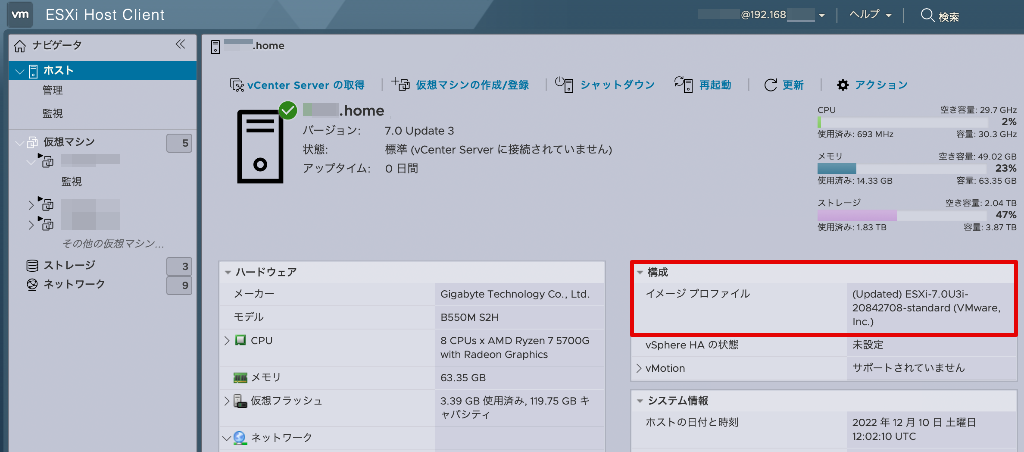
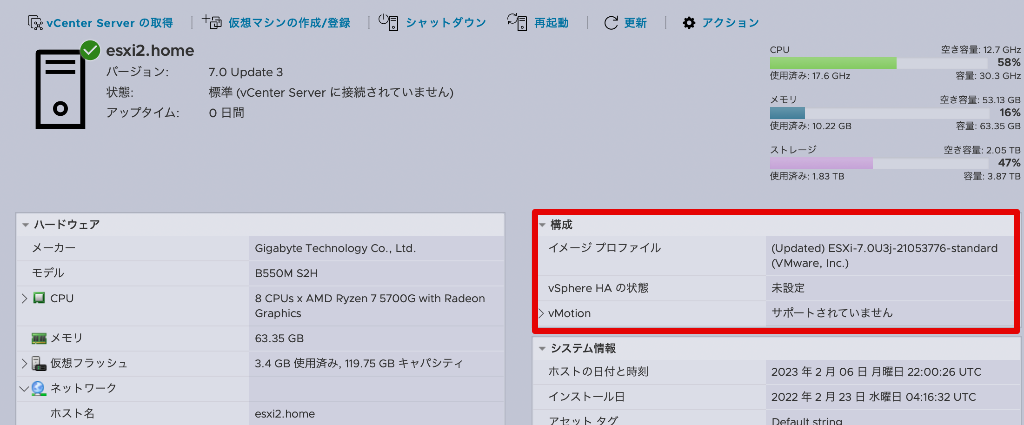
update post

diff --git a/source/_posts/esxi67-patch.md b/source/_posts/esxi67-patch.md
@@ -14,6 +14,30 @@ date: 2020-06-14 22:19:20
 
 <!-- more -->
 
+## ESXiの脆弱性を狙ったランサムウェアについて
+
+JPCERT/CCより、2023-02-07にESXiの脆弱性についての情報が提供されています。
+
+> VMware ESXiを標的としたランサムウェア攻撃について
+ <https://www.jpcert.or.jp/newsflash/2023020601.html>
+
+既知のOpenSLPのヒープオーバーフローの脆弱性（CVE-2021-21974）を悪用した攻撃とみられ、攻撃を受けるとファイルが暗号化され身代金の支払いを求めるメッセージが残されます。
+
+ちょうど2023-01-31に新しいESXi7.0のパッチが提供されていますが、こちらは不具合に対応するパッチとなります。上記で指摘されている脆弱性の対象（CVE-2021-21974）は、以下のとおりです。
+
+VMware ESXi 7.0系 Update 1cより前のバージョン（ESXi70U1c-17325551パッチ未適用）
+VMware ESXi 6.7系 ESXi670-202102001より前のバージョン（ESXi670-202102401-SGパッチ未適用）
+VMware ESXi 6.5系 ESXi650-202102001より前のバージョン（ESXi650-202102101-SGパッチ未適用）
+VMware Cloud Foundation 4系 4.2より前のバージョンに含まれるESXi
+VMware Cloud Foundation 3系 KB82705未適用のバージョンに含まれるESXi
+
+随分以前のパッチのU1cが適用されていれば問題はありません。基本的にサポート切れのESXi6.7を運用することは論外としても、適宜、ESXi7.0において、パッチを適用していれば安全です。最新パッチが適用された状態で、今回問題となったOpenSLPについては未稼働であることが確認できます。
+
+``` bash
+[root@esxi2:~] esxcli system slp stats get
+SLP service is not running.
+```
+
 ## パッチ適用に必要なもの
 
 SSHでESXiに接続し、コマンドラインでパッチを適用します。Windows10ではOpenSSHがサポートされていますので、{% label primary@オプション機能を追加する %}から{% label primary@OpenSSHクライアント %}を有効にし、コマンドラインから`ssh  root@ESXiのIPアドレス`で接続可能です。
@@ -22,8 +46,8 @@ SSHでESXiに接続し、コマンドラインでパッチを適用します。W
 
 ESXiのパッチ情報は以下を参照してください。当該ページの左ペインメニューには最新パッチの情報が掲載されていますので、最新のパッチ情報を辿ってください。また、過去のパッチの情報も提供されています。
 
-> VMware ESXi 7.0 Update 3i（2022-12-8発表）
- <https://docs.vmware.com/en/VMware-vSphere/7.0/rn/vsphere-esxi-70u3i-release-notes.html>
+> VMware ESXi 7.0 Update 3j（2023-1-31発表）
+ <https://docs.vmware.com/en/VMware-vSphere/7.0/rn/vsphere-esxi-70u3j-release-notes.html>
 
 ## 製品パッチの情報を入手する
 
@@ -35,7 +59,7 @@ ESXiのセットアップ時にCustomer Connectへの登録を行い、個人向
 
 {% asset_img myvm3.png alt %}
 
-さらに、"ESXi"とバージョンの"7.0"を選択し"検索"ボタンをクリックすると、パッチの一覧が表示されます。以下は7.0U3iの画面です。
+さらに、"ESXi"とバージョンの"7.0"を選択し"検索"ボタンをクリックすると、パッチの一覧が表示されます。以下は7.0U3jの画面です。
 
 {% asset_img myvm2.png alt %}
 
@@ -88,71 +112,46 @@ ESXiにログインし、以下の作業を行います。
  ```
 
 6. パッチ適用コマンドを入力します
- 新しいドライバやバグフィックス、セキュリティパッチなど含めたprofileとして整合性が取れたvibのアップデートはprofile updateを実行します。ここでは、ESXi7.0Update3gからUpdate3iにアップデートすることを例にします。
+ 新しいドライバやバグフィックス、セキュリティパッチなど含めたprofileとして整合性が取れたvibのアップデートはprofile updateを実行します。ここでは、ESXi7.0Update3iからUpdate3jにアップデートすることを例にします。
 
  現在の実行中のprofileを確認します。`esxcli software profile get`
  ``` bash
 [root@esxi2:] esxcli software profile get
-(Updated) ESXi-7.0U3g-20328353-standard
-   Name: (Updated) ESXi-7.0U3g-20328353-standard
+(Updated) ESXi-7.0U3i-20842708-standard
+   Name: (Updated) ESXi-7.0U3i-20842708-standard
    Vendor: VMware, Inc.
-   Creation Time: 2022-09-03T03:53:39
-   Modification Time: 2022-12-10T08:23:23
+   Creation Time: 2022-12-10T11:56:18
+   Modification Time: 2023-02-06T21:47:25
    Stateless Ready: True
  ```
 
  一般的にはバージョンの最後に"-standard"の文字が付いています。standard版がインストールされている事を示します。
  次に、パッチファイルに登録されているprofileを確認します（パッチはフルパス指定が必要です）。
  ``` bash
-[root@esxi2] esxcli software sources profile list -d /vmfs/volumes/datastore1/update/VMware-ESXi-7.0U3i-20842708-depot.zi
-p
-Name                            Vendor        Acceptance Level  Creation Time        Modification Time
-------------------------------  ------------  ----------------  -------------------  -----------------
-ESXi-7.0U3si-20841705-standard  VMware, Inc.  PartnerSupported  2022-12-08T00:00:00  2022-12-08T00:00:00
-ESXi-7.0U3si-20841705-no-tools  VMware, Inc.  PartnerSupported  2022-12-08T00:00:00  2022-11-24T01:25:32
-ESXi-7.0U3i-20842708-standard   VMware, Inc.  PartnerSupported  2022-12-08T00:00:00  2022-12-08T00:00:00
-ESXi-7.0U3i-20842708-no-tools   VMware, Inc.  PartnerSupported  2022-12-08T00:00:00  2022-11-24T05:06:48
+[root@esxi2] esxcli software sources profile list -d /vmfs/volumes/datastore1/update/VMware-ESXi-7.0U3j-21053776-depot.zip
+Name                           Vendor        Acceptance Level  Creation Time        Modification Time
+-----------------------------  ------------  ----------------  -------------------  -----------------
+ESXi-7.0U3j-21053776-standard  VMware, Inc.  PartnerSupported  2023-01-31T00:00:00  2023-01-31T00:00:00
+ESXi-7.0U3j-21053776-no-tools  VMware, Inc.  PartnerSupported  2023-01-31T00:00:00  2023-01-02T12:08:15
  ```
 
-今回は4つのprofileが存在しています。VMWare Toolsを含まないProfileであるno-tools、VMWare Tools付きのstandard版、それとU3siがセキュリティパッチのみ、U3iがセキュリティパッチを含む一般的なエンハンスとなります。
+VMWare Toolsを含まないProfileであるno-tools、VMWare Tools付きのstandard版となります。
 VMWare Toolsを使う一般的なユーザーはNo Tools版を選択しないので除外します。
-以下のように、セキュリティパッチのみのプロファイルは全て一般的なエンハンスに包含されていますので、特に互換性に拘るのでなければ不具合の修正も含んだスタンダードであるESXi-7.0U3i-20842708-standardを適用するのがおすすめです。
-
-| ESXi-7.0U3si-20841705-standard                                    | ESXi-7.0U3i-20842708-standard                                     |
-| ----------------------------------------------------------------- | ----------------------------------------------------------------- |
-| VMware_bootbank_esx-base_7.0.3-0.60.20841705                      | VMware_bootbank_esx-base_7.0.3-0.65.20842708                      |
-| VMware_bootbank_trx_7.0.3-0.60.20841705                           | VMware_bootbank_trx_7.0.3-0.65.20842708                           |
-| VMware_bootbank_vsanhealth_7.0.3-0.60.20841705                    | VMware_bootbank_vsanhealth_7.0.3-0.65.20842708                    |
-| VMware_bootbank_cpu-microcode_7.0.3-0.60.20841705                 | VMware_bootbank_cpu-microcode_7.0.3-0.65.20842708                 |
-| VMware_bootbank_crx_7.0.3-0.60.20841705                           | VMware_bootbank_crx_7.0.3-0.65.20842708                           |
-| VMware_bootbank_vsan_7.0.3-0.60.20841705                          | VMware_bootbank_vsan_7.0.3-0.65.20842708                          |
-| VMware_bootbank_native-misc-drivers_7.0.3-0.60.20841705           | VMware_bootbank_native-misc-drivers_7.0.3-0.65.20842708           |
-| VMware_bootbank_esx-xserver_7.0.3-0.60.20841705                   | VMware_bootbank_esx-xserver_7.0.3-0.65.20842708                   |
-| VMware_bootbank_esx-dvfilter-generic-fastpath_7.0.3-0.60.20841705 | VMware_bootbank_esx-dvfilter-generic-fastpath_7.0.3-0.65.20842708 |
-| VMware_bootbank_gc_7.0.3-0.60.20841705                            | VMware_bootbank_gc_7.0.3-0.65.20842708                            |
-| VMware_bootbank_esx-ui_2.1.1-20188605                             | VMware_bootbank_esx-ui_2.1.1-20188605                             |
-| VMware_bootbank_vdfs_7.0.3-0.60.20841705                          | VMware_bootbank_vdfs_7.0.3-0.65.20842708                          |
-| VMware_bootbank_bmcal_7.0.3-0.60.20841705                         | VMware_bootbank_bmcal_7.0.3-0.65.20842708                         |
-| VMware_bootbank_esxio-combiner_7.0.3-0.60.20841705                | VMware_bootbank_esxio-combiner_7.0.3-0.65.20842708                |
-| VMware_bootbank_loadesx_7.0.3-0.60.20841705                       | VMware_bootbank_loadesx_7.0.3-0.65.20842708                       |
-| VMware_bootbank_esx-update_7.0.3-0.60.20841705                    | VMware_bootbank_esx-update_7.0.3-0.65.20842708                    |
-| VMware_locker_tools-light_12.1.0.20219665-20841705                | VMware_locker_tools-light_12.1.0.20219665-20841705                |
-|                                                                   | VMW_bootbank_ntg3_4.1.8.0-4vmw.703.0.65.20842708                  |
 
 以下のようにパッチファイルのzipをフルパスで指定し、VMwareのパッチ情報にあるプロファイル名を指定しパッチを適用します。ここではstandardを指定します。
  ``` bash
-  [root@esxi:~] esxcli software profile update -d /vmfs/volumes/datastore1/update/VMware-ESXi-7.0U3i-20842708-depot.zip -p ESXi-7.0U3i-20842708-standard
+  [root@esxi:~] esxcli software profile update -d /vmfs/volumes/datastore1/update/VMware-ESXi-7.0U3j-21053776-depot.zip -p ESXi-7.0U3j-21053776-standard
  ```
  1. `esxcli software profile update`の実行後しばらくしてから、結果が表示されます。
  ```
 Update Result
    Message: The update completed successfully, but the system needs to be rebooted for the changes to be effective.
-   Reboot Required: true...
+   Reboot Required: true
  ```
 
-2. コマンドプロンプトから、`reboot`としてESXiを再起動します。
+1. コマンドプロンプトから、`reboot`としてESXiを再起動します。
 
-3. 再起動完了後、ESXiにログインします。画面デザインが大きく変わっています。左ペインメニューの"ホスト"をクリックし、バージョンの表記に今回パッチを当てたビルド番号が表示されている事を確認してください。今回はU3iとなっているはずです。
+2. 再起動完了後、ESXiにログインします。左ペインメニューの"ホスト"をクリックし、バージョンの表記に今回パッチを当てたビルド番号が表示されている事を確認してください。今回はU3jとなっているはずです。
 
  - ESXi7.0
   {% asset_img esxi5.png alt %}
@@ -161,7 +160,7 @@ Update Result
 
  ``` bash
 [root@esxi2:~] vmware -v
-VMware ESXi 7.0.3 build-20842708
+VMware ESXi 7.0.3 build-21053776
  ```
 
 4. 最後にこれまで実施してきたメンテナンス準備とは反対の作業をします。メンテナンスモードの終了・SSHの無効化・仮想マシンの起動と続けます。
